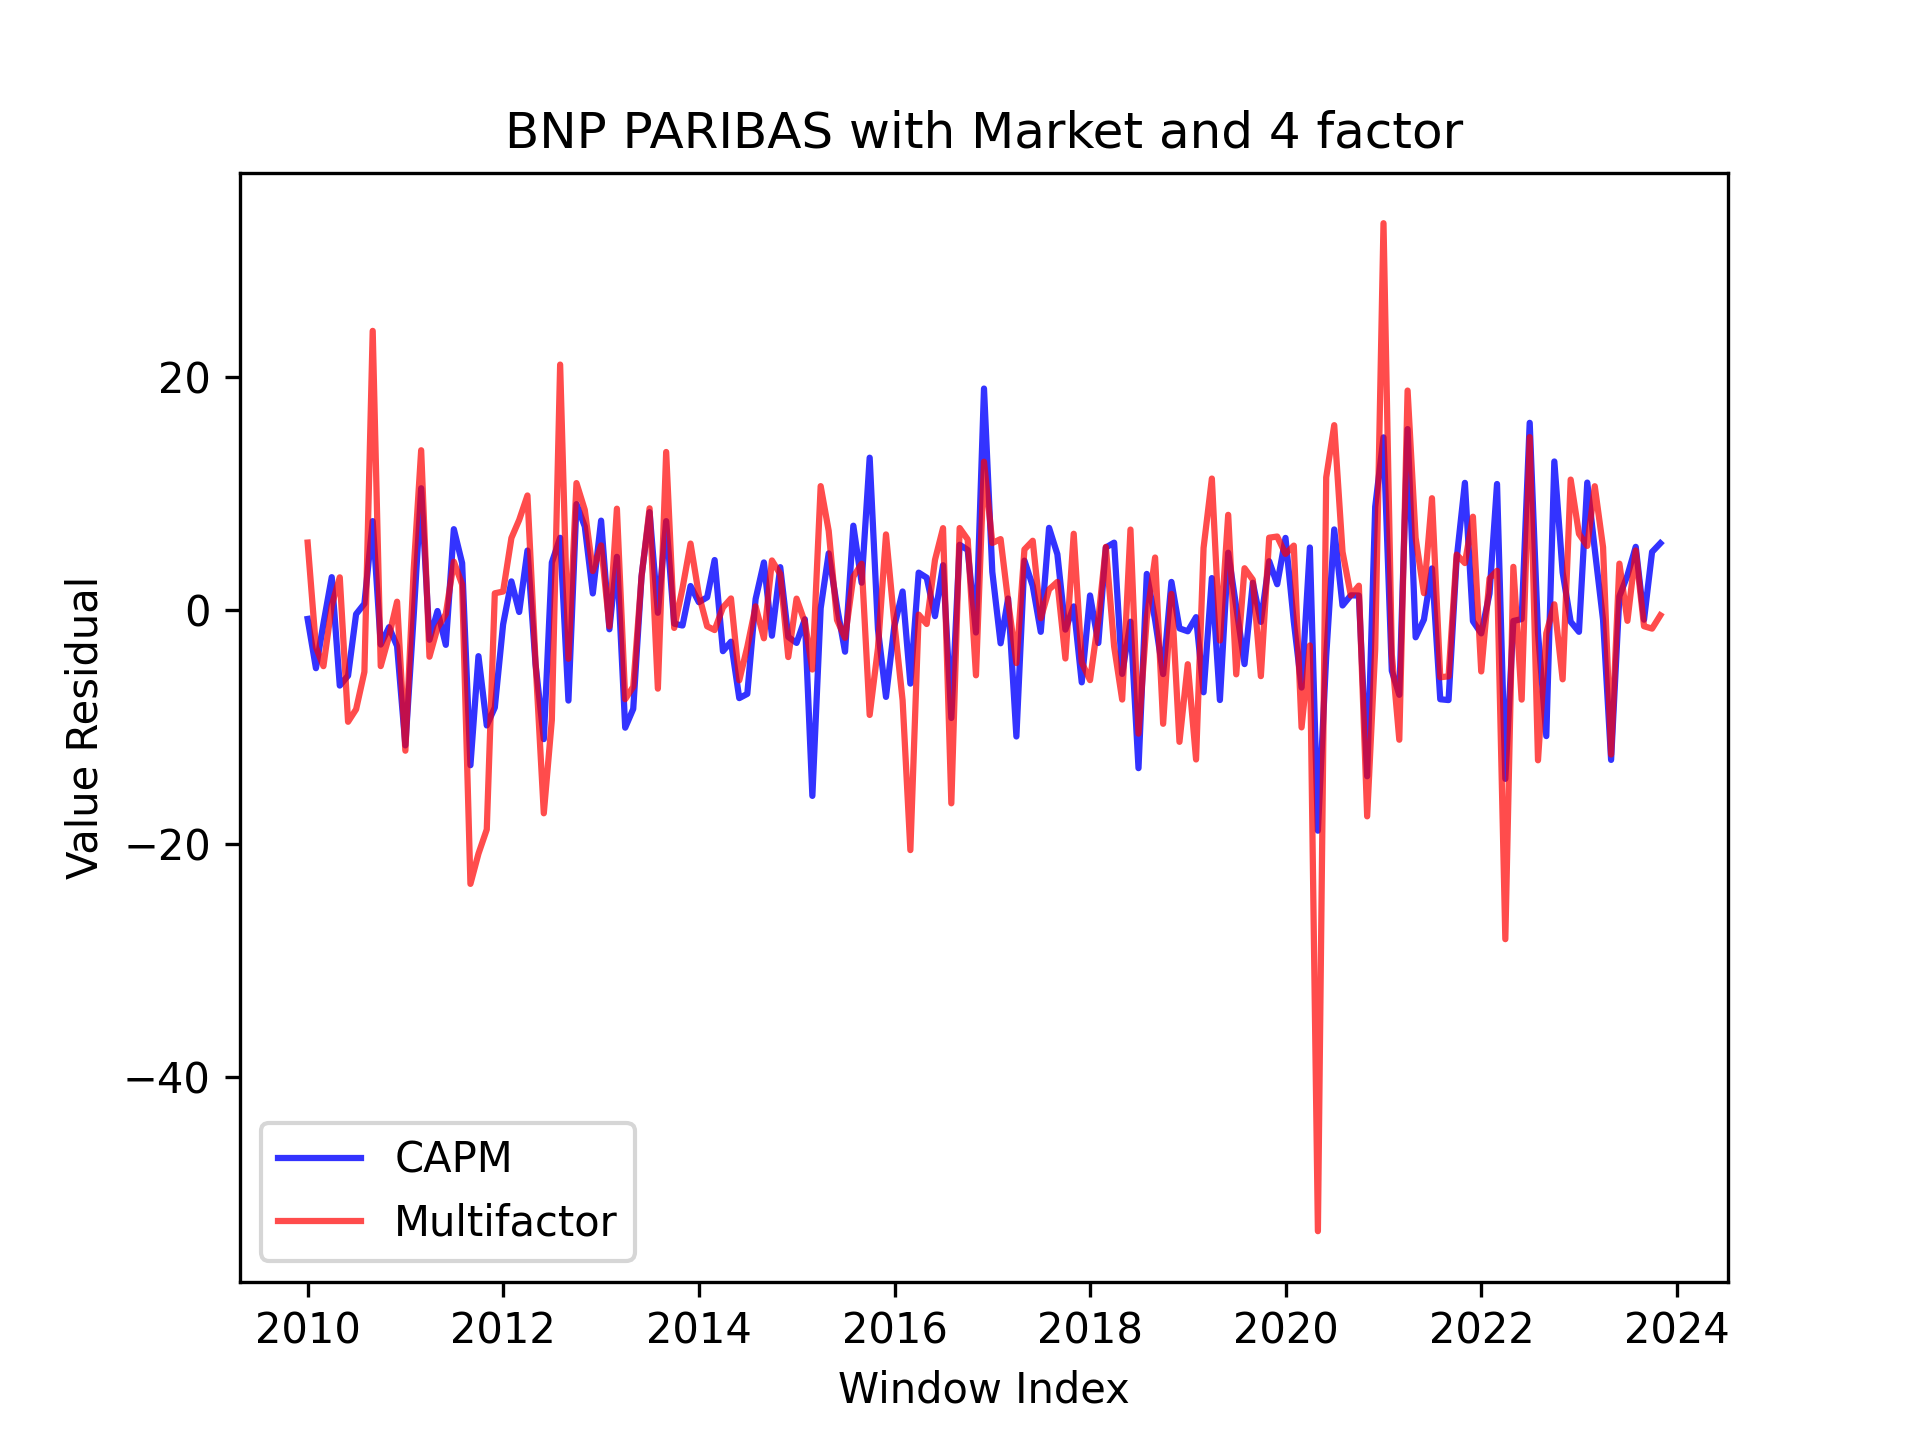
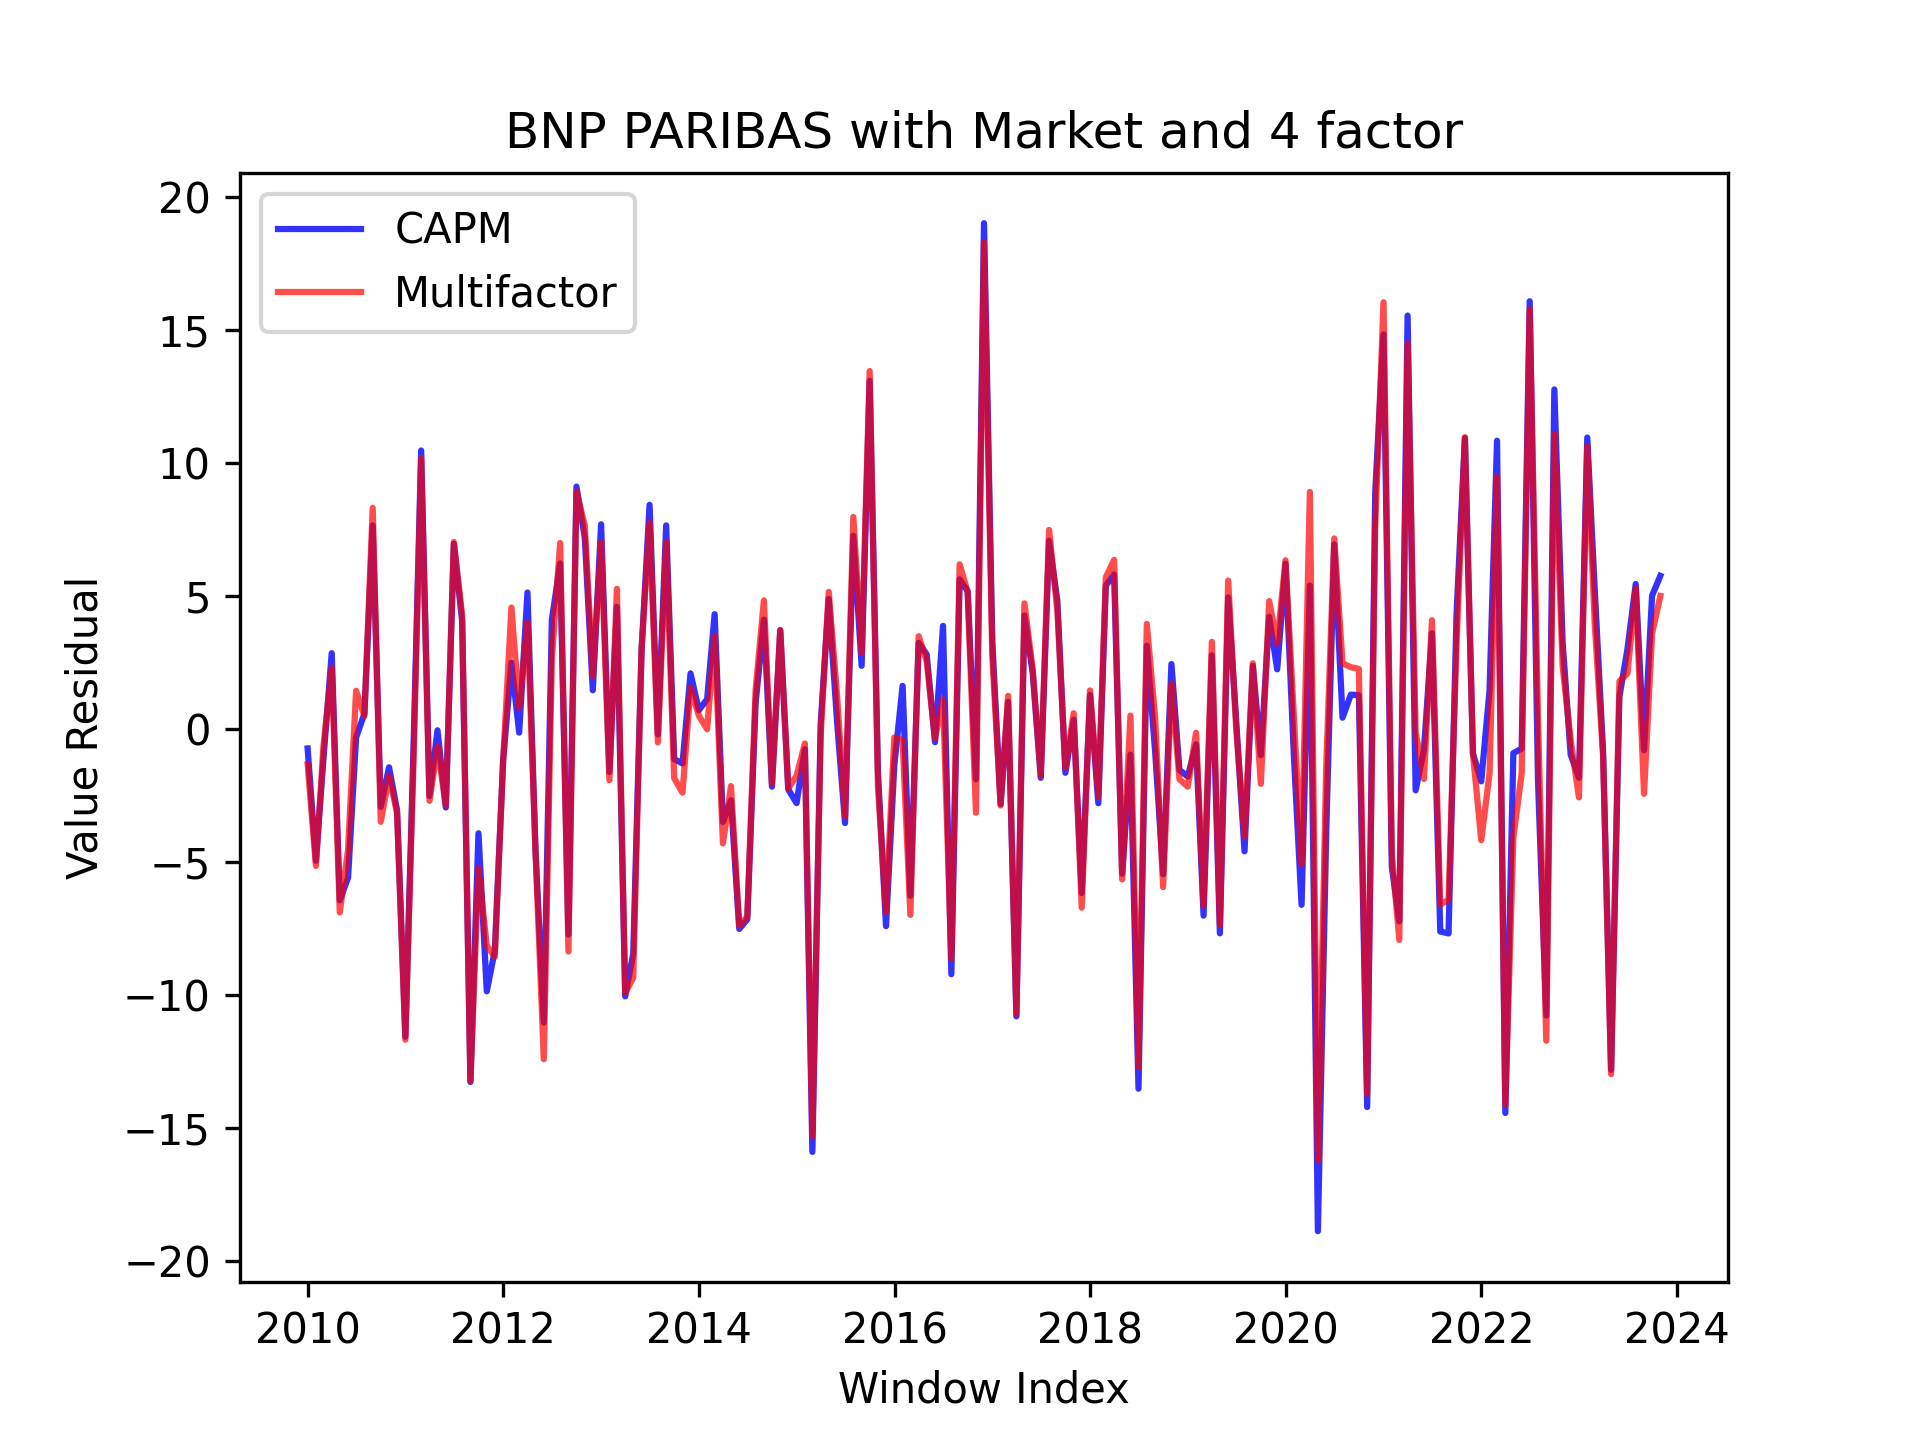
Finish
Not send the code to prof, until I say it

diff --git a/DataProject_Banks.py b/DataProject_Banks.py
@@ -4,10 +4,10 @@ import pandas as pd
 import seaborn as sns
 import scipy as sp
 import statsmodels.api as sm
-import Experimental as ex
+import Functions as fun
 
 # Define date - time index monthly
-t = pd.date_range(start ='01-11-2009', end ='31-10-2023', freq ='M')
+t=pd.date_range(start ='01-11-2009', end ='31-10-2023', freq ='M')
 
 # Import data from Excel File
 StoxxEuro = pd.read_excel('Data_Banks_EuroStoxx600_Euribor.xlsx', sheet_name="STOXXEURO600")
@@ -19,25 +19,29 @@ MKT = StoxxEuro[['STOXX EUROPE 600 E - TOT RETURN IND']]
 BANKS = Constituents.iloc[:, 1:]
 RFREE = Euribor_3M[['EBF EURIBOR 3M DELAYED - OFFERED RATE']]
 
+# Clean names on Market and Banks
+MKT.columns = MKT.columns.str.replace(' E - TOT RETURN IND','')
+BANKS.columns = BANKS.columns.str.replace(' - TOT RETURN IND','')
+
 # Compute returns in percentages
 rBanks = np.array(100 * (np.log(BANKS) - np.log(BANKS.shift(1)))) 
 rMkt = np.array(100 * (np.log(MKT) - np.log(MKT.shift(1))))
 rF = np.array(RFREE/12)
 
-# Clean names on Market and Banks
-MKT.columns = MKT.columns.str.replace(' E - TOT RETURN IND','')
-BANKS.columns = BANKS.columns.str.replace(' - TOT RETURN IND','')
-
 # Compute excess returns 
 erBanks = np.subtract(rBanks, rF)[1:].T
 erMkt = np.subtract(rMkt, rF)[1:]
 
+# Dictionary of Banks: 1 - return in percentages, 2 - excess returns
+d_banks_r = {BANKS.columns[i]: rBanks[i+1] for i in range(len(BANKS.columns))}
+d_banks_ex = {BANKS.columns[i]: erBanks[i] for i in range(len(BANKS.columns))}
+
 # Create scatterplot
-ex.scatterplot(erMkt,erBanks, "Excess Return", "STOXXEURO 600", BANKS,
-               'StoxxEuro vs ','Equity_vs_Mkt')
+fun.scatterplot(erMkt,erBanks, "Excess Return", "STOXXEURO 600", BANKS,
+               'StoxxEuro vs ','Equity vs Mkt')
 
 # DataFrame with all quantities we need (I think)
-df_quants = ex.OLS(erMkt, erBanks, BANKS.columns)
+df_quants = fun.OLS(erMkt, erBanks, BANKS.columns)
 print(df_quants)
 
 ''' 
@@ -49,7 +53,7 @@ print(df_quants)
 average_erBanks = sum(erBanks)/len(erBanks)
 
 # DataFrame with all quantities for equally weighted portfolio
-df_av_quants = ex.OLS(erMkt, average_erBanks, BANKS.columns)
+df_av_quants = fun.OLS(erMkt, average_erBanks, BANKS.columns)
 print(df_av_quants)
 
 ''' 
@@ -62,17 +66,48 @@ df_tests = pd.DataFrame(index = BANKS.columns)
 
 # Compute: RESET, WHite, Breusch-GOdfrey and Durbin-Watson tests
 # And insert them in previously created DataFrame 
-df_tests = ex.reset_test(erMkt, erBanks, df_tests)
-df_tests = ex.white_test(erMkt, erBanks, df_tests)                         
-df_tests = ex.breusch_godfrey_test(erMkt, erBanks, df_tests)
-df_tests = ex.durbin_watson_test(erMkt, erBanks, df_tests)
+df_tests = fun.reset_test(erMkt, erBanks, df_tests)
+df_tests = fun.white_test(erMkt, erBanks, df_tests)                         
+df_tests = fun.breusch_godfrey_test(erMkt, erBanks, df_tests)
+df_tests = fun.durbin_watson_test(erMkt, erBanks, df_tests)
 
 ''' 
     If you want to download .xlsx file, change 51 with this
     df_tests.to_excel('Tests.xlsx')
 '''
 
-# Compute and create lineplot for Chow Test - moving break dates 
-ex.Chow_Test(erMkt, erBanks, BANKS.columns, 'Chow_Testing')
+# OLS with robust standard errors
+fun.ols_rob_ste(erMkt, d_banks_ex, df_tests, 'Robust Standar Error', 'HAC')
 
-# --- CORRELATION NOT BEING TOO HIGH --- BEFORE NEAR COLLINEARITY
+# Fama-French
+FF_data = pd.read_csv('Europe_5_Factors.csv', skiprows=3, nrows=400, index_col=0)
+FF_data.index = pd.to_datetime(FF_data.index, format='%Y%m')
+FF_data.index = FF_data.index + pd.offsets.MonthEnd()
+start_date = pd.to_datetime('2009-12-01')
+end_date = pd.to_datetime('2023-10-31')
+FF_data = FF_data.loc[start_date:end_date]
+
+Mkt_RF = FF_data['Mkt-RF']
+SMB = FF_data['SMB']
+HML = FF_data['HML']
+RMW = FF_data['RMW']
+CMA = FF_data['CMA']
+
+results_multifactor = fun.multifactor_model_4(erMkt, erBanks, Mkt_RF, SMB, HML, RMW, CMA)
+
+# In this case HML, RMW, CMA are relevant variables
+# We have all pvalue = 1, except the Market
+
+results_CAPM = fun.ols_sum(erMkt, erBanks)
+
+corr = fun.correlation_residuals(results_CAPM, results_multifactor, BANKS.columns, 
+                                'Residuals with Market and 4 factor of Fama-French')
+print(corr)
+
+# Compute and create lineplot for Chow Test - moving break dates 
+#fun.chow_test(erMkt, erBanks, BANKS.columns, 'Chow_Testing')
+
+# Re-estimate the CAPM model for very window of size 5 years
+# by moving the estimation sample by one month at a time
+fun.rolling_capm(erMkt, erBanks, BANKS.columns, 'Rolling')
+

diff --git a/Functions.py b/Functions.py
@@ -40,7 +40,7 @@ def scatterplot(Market, Stocks, title, xlabel, ylabel, how_to_save, folder_name)
         plt.title(title)
         plt.xlabel(xlabel)
         plt.ylabel(ylabel_i)
-        plt.savefig(folder_path + how_to_save + ylabel_i + '.png')
+        plt.savefig(folder_path + '/' + how_to_save + ylabel_i + '.png')
         plt.close()
   
   
@@ -155,25 +155,6 @@ def durbin_watson_test(Market, Stocks, df):
     df['DW_Test'] = dw_values
     return df
     
-
-'''def DataFrame(index_df, folder_name, name_file, list_elements):
-    cwd = os.getcwd()
-    
-    if not os.path.exists(folder_name):
-        folder_name = os.mkdir(cwd + "/" + folder_name)
-    
-    df = pd.DataFrame(index = index_df)
-    
-    for n, e in zip(list_elements):
-        df[n] = e
-        
-    file = folder_name + "/" + name_file + '.xlsx'
-    
-    if not os.path.exists(file):
-        df.to_excel(file)
-    
-    return df'''
-    
     
 def chow_test(Market, Stocks, name_Stocks, folder_name):
     folder_path = create_folder(folder_name)
@@ -220,14 +201,12 @@ def multifactor_model_4(Market, Stocks, factor_1, factor_2, factor_3, factor_4, 
     for stock in Stocks:
         result = sm.OLS(stock,X).fit()
         results.append(result)
-        #print(result.summary())
         X = np.column_stack((np.ones_like(Market), Market, factor_3, factor_4, factor_5))
         Res2 = sm.OLS(stock,X).fit()
-        #print(Res2.summary())
         RSSU = result.ssr
         RSSR = Res2.ssr
-        Fstat = ((RSSR-RSSU)/3)/(RSSU/(n))
-        Pval = 1-sp.stats.f.cdf(Fstat,3,n)
+        Fstat = ((RSSR-RSSU)/4)/(RSSU/(n))
+        Pval = 1-sp.stats.f.cdf(Fstat,4,n)
         print(Pval)
     return results
     

diff --git a/Try.py b/Try.py
@@ -68,8 +68,8 @@ HML = FF_data['HML']
 RMW = FF_data['RMW']
 CMA = FF_data['CMA']
 
-results_multifactor = ex.multifactor_model_4(erBanks, Mkt_RF, SMB, HML, RMW, CMA)
-
+results_multifactor = ex.multifactor_model_4(erMkt, erBanks, Mkt_RF, SMB, HML, RMW, CMA)
+# In this case HML, RMW, CMA are statistically significat
 results_CAPM = ex.ols_sum(erMkt, erBanks)
 
 corr = ex.correlation_residuals(results_CAPM, results_multifactor, BANKS.columns, 
